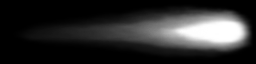
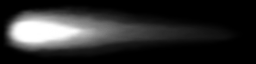
media, src: particles, decal size
git-svn-id: svn://svn.tuxfamily.org/svnroot/tesseract/main@908 b412e182-2ed4-4078-95c4-27dc59f57fa9

diff --git a/src/game/weapon.cpp b/src/game/weapon.cpp
@@ -493,8 +493,9 @@ namespace game
                 break;
 
             case ATK_RAIL_SHOOT:
-                particle_splash(PART_SPARK, 200, 250, to, 0xB49B4B, 0.24f);
-                particle_trail(PART_SMOKE, 500, hudgunorigin(gun, from, to, d), to, 0x404040, 0.6f, 20);
+                particle_splash(PART_SPARK, 200, 500, to, 0xB49B4B, 0.24f);
+                //particle_trail(PART_SMOKE, 500, hudgunorigin(gun, from, to, d), to, 0x404040, 0.6f, 20);
+				particle_flare(hudgunorigin(gun, from, to, d), to, 600, PART_STREAK, 0xFFC864, 0.28f);
                 if(muzzleflash && d->muzzle.x >= 0)
                     particle_flare(d->muzzle, d->muzzle, 150, PART_MUZZLE_FLASH3, 0xFFFFFF, 1.25f, d);
                 if(!local) adddecal(DECAL_BULLET, to, vec(from).sub(to).normalize(), 3.0f);
@@ -598,7 +599,7 @@ namespace game
             shorten(from, to, dist);
             hitpush(attacks[atk].damage, o, d, from, to, atk, 1);
         }
-        else if(attacks[atk].action!=ACT_MELEE) adddecal(DECAL_BULLET, to, vec(from).sub(to).normalize(), 3.0f);
+        else if(attacks[atk].action!=ACT_MELEE) adddecal(DECAL_BULLET, to, vec(from).sub(to).normalize(), 2.0f);
     }
 
     void shoot(gameent *d, const vec &targ)

diff --git a/src/engine/renderparticles.cpp b/src/engine/renderparticles.cpp
@@ -848,7 +848,7 @@ static partrenderer *parts[] =
     new quadrenderer("media/particle/ball1.png", PT_PART|PT_FEW|PT_BRIGHT),                    // fireball1
     new quadrenderer("media/particle/ball2.png", PT_PART|PT_FEW|PT_BRIGHT),                    // fireball2
     new quadrenderer("media/particle/ball3.png", PT_PART|PT_FEW|PT_BRIGHT),                    // fireball3
-    new taperenderer("media/particle/flare.png", PT_TAPE|PT_BRIGHT),                           // streak
+    new taperenderer("media/particle/rail_trail.png", PT_TAPE|PT_BRIGHT),                           // streak
     &lightnings,                                                                               // lightning
     &fireballs,                                                                                // explosion fireball
     &bluefireballs,                                                                            // bluish explosion fireball
